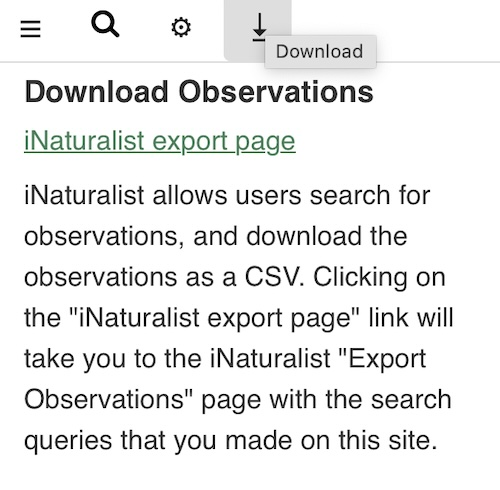
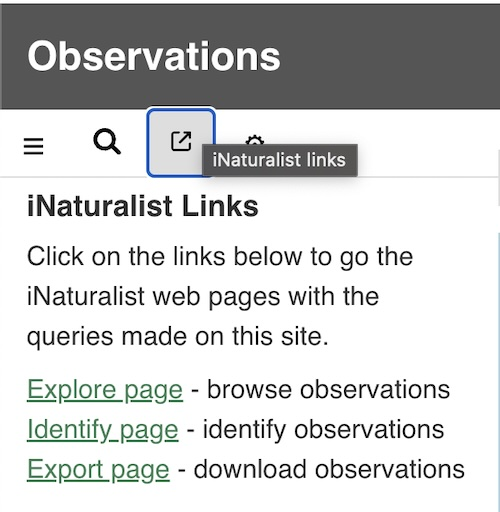
update about page

diff --git a/src/components/PageAbout/template.ts b/src/components/PageAbout/template.ts
@@ -173,38 +173,10 @@ export const template = html`
         />
       </li>
       <li>
-        Download the observations as a CSV by clicking a link to the iNaturalist
-        "Export Observations" page.
-        <img
-          src="${download}"
-          alt="Download menu to download the observations"
-        />
-      </li>
-      <li>
-        <p>
-          This site gets data from the iNaturalist API. As a result, the urls
-          for the site are compatible with iNaturalist API. You can copy and
-          paste the query params (stuff after the ?) from the site, and use them
-          for the iNaturalist API. The only properties not compatible are
-          colors, view, and subview.
-        </p>
-
-        <p>
-          For instance, this is the URL query params for all monarchs and narrow
-          leaf milkweed in Los Angeles and San Diego.
-        </p>
-        <p>
-          <code
-            >taxon_id=48662,56851&place_id=962,829&colors=%234477aa,%2366ccee&verifiable=true&spam=false</code
-          >
-        </p>
-        <p>
-          You can copy the query params and use them for the
-          <a
-            href="https://api.inaturalist.org/v1/observations?taxon_id=48662,56851&place_id=962,829&colors=%234477aa,%2366ccee&verifiable=true&spam=false"
-            >iNaturalist "observations" API</a
-          >
-        </p>
+        Users can use the search queries created on this site for the iNaturlist
+        Explore, Identify, and Export pages by clicking on the links in the
+        iNaturalist Links menu.
+        <img src="${download}" alt="Links in the iNaturalist Links menu" />
       </li>
     </ol>
 
